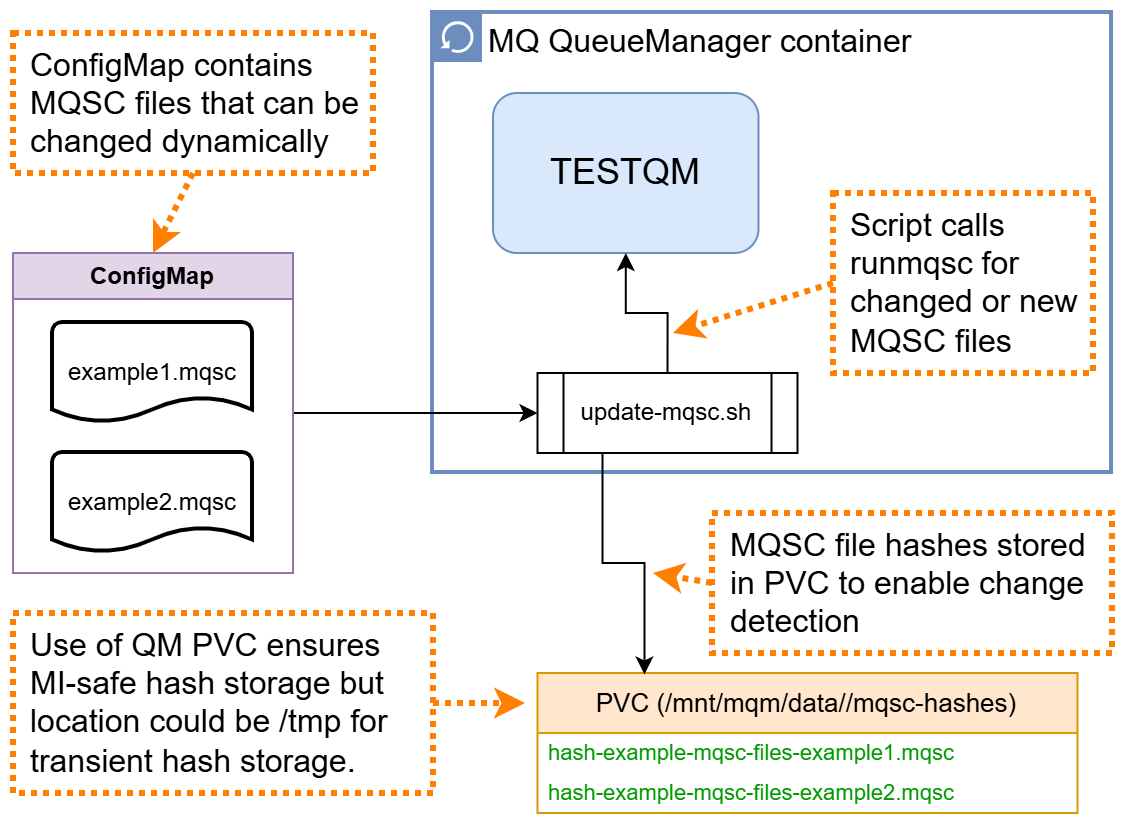
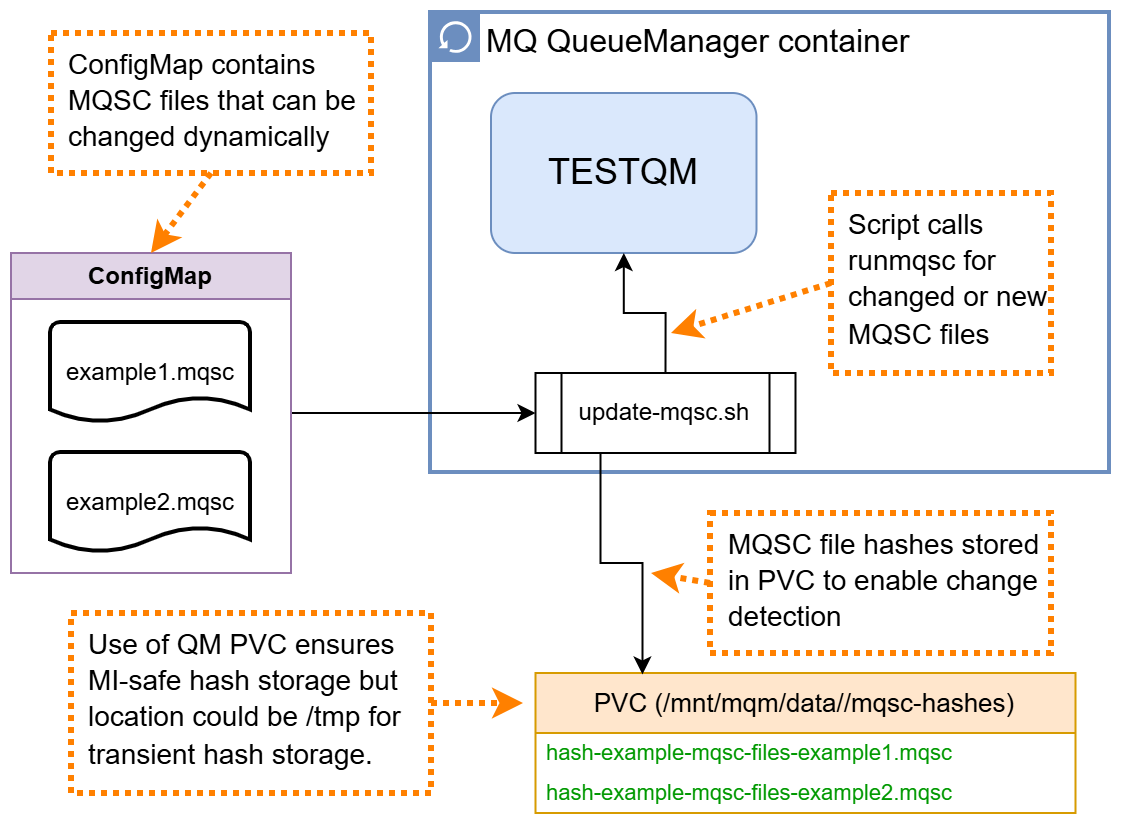
Picture formatting

diff --git a/README.md b/README.md
@@ -4,7 +4,6 @@ Dynamic application of MQSC scripts in a running container
 Based on https://github.com/ibm-messaging/mq-gitops-samples/blob/main/queue-manager-deployment/components/scripts/start-mqsc.sh by Martin Evans, this repo
 contains a script that will monitor multiple files and preserve checksums across restarts so the files are only applied when they are changed:
 
-
 ![overview-light](/pictures/overview-light.png#gh-light-mode-only)![overview-dark](/pictures/overview-dark.png#gh-dark-mode-only)
 
 